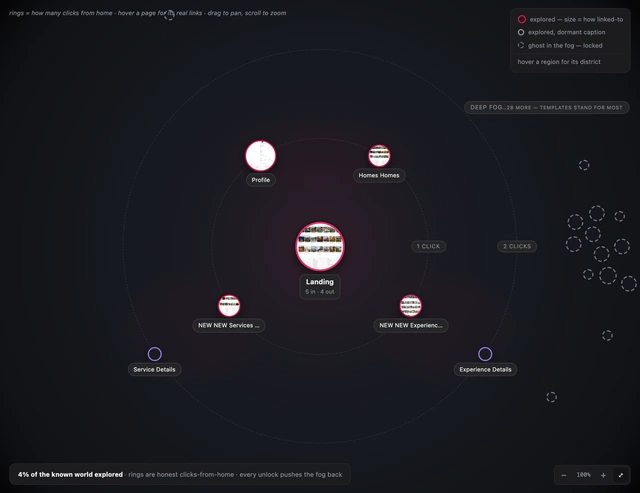
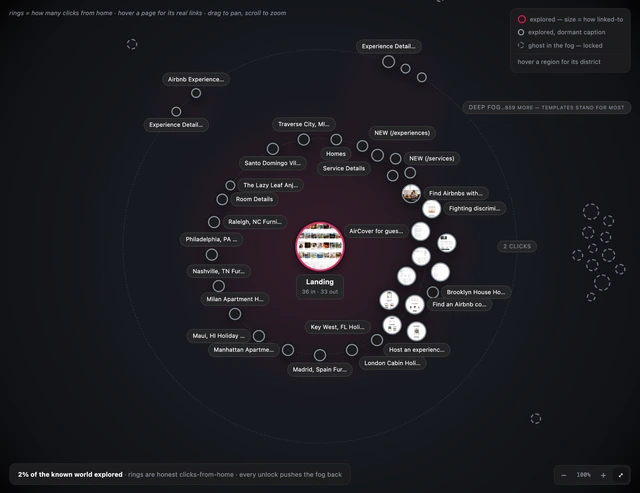
Landing page v1.2: populated showcase, hero decided on evidence (F1-F3)
F1 — all seven gallery tiles reshot on cap-40-class libraries. Six now come from
fresh landing-shots-* captures (18-41 pages each, was 7-39); flipkart stays on its
read-only fixture and reshot byte-identical, which incidentally proves the whole
shot pipeline deterministic. github's measured accent moved with the denser
capture: #5FED83 (Copilot green, cap-10) -> #0969DA (link blue, 734x on 40 pages).
All seven alt texts rewritten to describe what their own render now shows.

F2 — the deferred hero decision, made by count rather than by eye. New probes
(hero-probe.js, ring-probe.js) measure the brief's five criteria per zoom tier on
both candidates. wikipedia-37 wins four — two rings, two district arcs, a deep-fog
chip over 4,169 ghosts — and loses "visible accent presence": 1 of 37 discs wears
the accent against 8 of 18 on xflow. So xflow keeps the hero, as the brief
directed. The cause is not Wikipedia's pale pages: the accent ring encodes "this
page has a description", and that workspace has described:0. One describe run
would very likely flip this.

F3 — two numbers the page quotes had gone stale under it, because landing-shots
was itself re-captured today: x31,920 -> x32,939 and "1 more note" -> "3 more
notes". Four landing-shots assets reshot so the images agree with the copy.
Added the blue-band disclosure (six of seven hexes inside 19.7 degrees) which
v1.1's report wrongly claimed was already on the page, and a note on pages a
[…]

diff --git a/docs/index.html b/docs/index.html
@@ -281,6 +281,13 @@
 
     </div>
 
+    <!-- The hero map is xflowpay, and v1.2 re-ran the choice rather than inheriting it: with the map-root
+         fix in, wikipedia's 37-page capture finally draws true rings, so both candidates went through the
+         same zoom sweep again. wikipedia wins on structure (two rings, district arcs, a deep-fog chip that
+         xflow's single-ring library cannot produce) and loses on accent presence — measured: 1 of its 37
+         discs wears the product's accent, against 8 of 18 here, because the accent ring marks a page whose
+         description has been written and that workspace has none. Evidence + the head-to-head pair in
+         prds/landing-page-v1.2-populated-BUILD-REPORT.md § F2. -->
     <div class="heroshot">
       <figure class="shot">
         <img src="assets/hero-map.webp" width="2200" height="1696"
@@ -426,11 +433,11 @@
           <div class="body reveal">
             <h3>Design language</h3>
             <p class="quote">Measured from your product, or absent.</p>
-            <p>Colours, type ramp, spacing ladder and radii, aggregated from the captured pages — every value carrying the count and page-spread behind it, as here, where the product's darkest navy is <code>×31,920</code> across all eighteen pages and the accent is <code>×141</code> across four. One toggle re-reads the same colours as a treemap of how often each appears. The tab opens with <code>method: heuristic</code> in its own words: evidence of how the product is styled today, not a claim about its authored tokens. It even names what it left out — values seen on a single page stay in <code>tokens.json</code> instead of being promoted into the ramp.</p>
+            <p>Colours, type ramp, spacing ladder and radii, aggregated from the captured pages — every value carrying the count and page-spread behind it, as here, where the product's darkest navy is <code>×32,939</code> across all eighteen pages and the accent is <code>×141</code> across four. One toggle re-reads the same colours as a treemap of how often each appears. The tab opens with <code>method: heuristic</code> in its own words: evidence of how the product is styled today, not a claim about its authored tokens. It even names what it left out — values seen on a single page stay in <code>tokens.json</code> instead of being promoted into the ramp.</p>
           </div>
           <div class="imgwrap">
             <img src="assets/tour-tokens.webp" width="1900" height="609"
-                 alt="The Design language tab: a provenance strip reading 'Everything below is method: heuristic — values observed on the captured pages, aggregated and clustered by statistics — they are evidence of how the product is styled today, not its authored design tokens', above a Palette / Proportions toggle and twenty-one colour swatches, each labelled with its hex, how many times it was seen and on how many pages — #1F2741 ×31,920 on 18 pages, down to #E4E9FF ×5 on 5 pages.">
+                 alt="The Design language tab: a provenance strip reading 'Everything below is method: heuristic — values observed on the captured pages, aggregated and clustered by statistics — they are evidence of how the product is styled today, not its authored design tokens', then 'Filter: seen on 2+ pages (41 single-page values kept in tokens.json)', above a Palette / Proportions toggle and twenty-one colour swatches, each labelled with its hex, how many times it was seen and on how many pages — #1F2741 ×32,939 on 18 pages, down to #E4E9FF ×5 on 5 pages.">
           </div>
         </article>
 
@@ -442,7 +449,7 @@
           </div>
           <div class="imgwrap">
             <span class="fadeb"><img src="assets/tour-ledger.webp" width="680" height="990"
-                 alt="The working ledger: 'Library check — all clean — 1 more note, nothing needed from you'; then 'NEXT · NEW PAGES WAITING — Let your AI read your 10 new pages', with a 'Copy the describe prompt' button; then 'Borrowed your product's color — #5E76E3, the dashboard now wears it, observed across 4 pages'. The rail continues below the frame."></span>
+                 alt="The working ledger: 'Library check — all clean — 3 more notes, nothing needed from you'; then 'NEXT · NEW PAGES WAITING — Let your AI read your 10 new pages', with a 'Copy the describe prompt' button; then 'Borrowed your product's color — #5E76E3, the dashboard now wears it, observed across 4 pages'. The rail continues below the frame."></span>
           </div>
         </article>
 
@@ -453,54 +460,61 @@
   <!-- ═══ 5 · ANY PRODUCT — THE MAP GALLERY ═════════════════════════════════════════════════════
        Seven real workspaces, seven real Map panes, each wearing the accent the kit measured in that
        product's own pages. At tile scale a map is its shape — discs, fog, accent — which is the point:
-       nothing here is a mockup of a product, it is the kit's own output on seven different ones. -->
+       nothing here is a mockup of a product, it is the kit's own output on seven different ones.
+       v1.2: all seven re-shot on POPULATED libraries (18–41 pages each, was 7–39), so a tile now shows
+       a full ring and a real frontier rather than a sparse cluster. Six of the seven come from fresh
+       captures in their own landing-shots-* workspaces; flipkart stays on its read-only fixture. Every
+       number in this section — page counts, hexes, percentages — is re-read from those workspaces at
+       build time; see prds/landing-page-v1.2-populated-BUILD-REPORT.md. -->
   <section id="anyproduct">
     <div class="wrap">
       <p class="eyebrow">Any product</p>
       <h2>Seven products, seven maps.</h2>
-      <p class="lede">Point it at what you design for. Seven real captures in seven separate workspaces — a marketplace, a retailer, a sports site, a travel platform, an encyclopedia, a payments product, a developer platform — each dashboard wearing that product's own colour, observed rather than configured. Same kit, same one script, nothing set per product.</p>
+      <p class="lede">Point it at what you design for. Seven real captures in seven separate workspaces — a marketplace, a retailer, a sports site, a travel platform, an encyclopedia, a payments product, a developer platform — each dashboard wearing that product's own colour, observed rather than configured. Eighteen to forty-one pages in each library, and each map says out loud how little of its site that is: from eleven per cent down to nine-tenths of one. Same kit, same one script, nothing set per product.</p>
 
       <ul class="gal">
         <li>
           <img src="assets/tile-flipkart.webp" width="640" height="493"
-               alt="The kit's Map pane on a capture of flipkart.com: rings of small page discs around a lit centre, with dashed ghost pages in the fog, the whole panel tinted by a measured blue accent.">
+               alt="The kit's Map pane on a capture of flipkart.com: thirty-nine page discs in two labelled rings — one click and two clicks from home — around a lit centre, most of them outlined in the measured blue accent, with dashed ghost pages in the fog beyond and a footer reading '3% of the known world explored'.">
           <span class="cap"><span class="sw" style="background:#2874F0"></span><b>flipkart.com</b><span class="hex">#2874F0</span></span>
         </li>
         <li>
           <img src="assets/tile-amazon.webp" width="640" height="493"
-               alt="The kit's Map pane on a capture of amazon.in: rings of small page discs around a lit centre, with dashed ghost pages in the fog, the whole panel tinted by a measured blue accent.">
+               alt="The kit's Map pane on a capture of amazon.in: forty-one page discs packed into a dense ring around a lit centre, each disc its own captured screenshot, a further ring labelled two clicks, dashed ghost pages in the fog, and a footer reading '1% of the known world explored'.">
           <span class="cap"><span class="sw" style="background:#2162A1"></span><b>amazon.in</b><span class="hex">#2162A1</span></span>
         </li>
         <li>
           <img src="assets/tile-espncricinfo.webp" width="640" height="493"
-               alt="The kit's Map pane on a capture of espncricinfo.com: rings of small page discs around a lit centre, with dashed ghost pages in the fog, the whole panel tinted by a measured blue accent.">
+               alt="The kit's Map pane on a capture of espncricinfo.com: thirty-seven page discs ringing a lit centre with a second ring labelled two clicks, dashed ghost pages spread through a blue-tinted fog, and a footer reading '3% of the known world explored'.">
           <span class="cap"><span class="sw" style="background:#0860C4"></span><b>espncricinfo.com</b><span class="hex">#0860C4</span></span>
         </li>
         <li>
           <img src="assets/tile-airbnb.webp" width="640" height="493"
-               alt="The kit's Map pane on a capture of airbnb.co.in: a small cluster of seven page discs around a lit centre, with dashed ghost pages in the fog, the whole panel tinted by a measured crimson accent.">
+               alt="The kit's Map pane on a capture of airbnb.co.in: thirty-seven page discs ringing a lit centre, a second ring labelled two clicks, dashed ghost pages in the fog — and the whole fog glowing crimson, because that is the accent the kit measured in this product's own pages.">
           <span class="cap"><span class="sw" style="background:#DA1249"></span><b>airbnb.co.in</b><span class="hex">#DA1249</span></span>
         </li>
         <li>
           <img src="assets/tile-wikipedia.webp" width="640" height="493"
-               alt="The kit's Map pane on a capture of en.wikipedia.org: an arc of pale page discs beside a lit centre, with dashed ghost pages in the fog, the whole panel tinted by a measured blue accent.">
+               alt="The kit's Map pane on a capture of en.wikipedia.org: thirty-seven page discs, pale because the pages themselves are, ringing a blue-ringed centre, a second ring labelled two clicks, dashed ghost pages in the fog, and a footer reading '0.9% of the known world explored'.">
           <span class="cap"><span class="sw" style="background:#3366CC"></span><b>en.wikipedia.org</b><span class="hex">#3366CC</span></span>
         </li>
         <li>
           <img src="assets/tile-xflowpay.webp" width="640" height="493"
-               alt="The kit's Map pane on a capture of xflowpay.com: rings of small page discs around a lit centre, with dashed ghost pages in the fog, the whole panel tinted by a measured indigo accent.">
+               alt="The kit's Map pane on a capture of xflowpay.com: eighteen page discs in a single ring around a lit centre, several outlined in the measured indigo accent, dashed ghost pages in the fog, and a footer reading '11% of the known world explored' — the most-explored library of the seven, because it is the smallest site.">
           <span class="cap"><span class="sw" style="background:#5E76E3"></span><b>xflowpay.com</b><span class="hex">#5E76E3</span></span>
         </li>
         <li>
           <img src="assets/tile-github.webp" width="640" height="493"
-               alt="The kit's Map pane on a capture of github.com: a small ring of page discs around a lit centre, with dashed ghost pages in the fog, the whole panel tinted by a measured green accent.">
-          <span class="cap"><span class="sw" style="background:#5FED83"></span><b>github.com</b><span class="hex">#5FED83</span></span>
+               alt="The kit's Map pane on a capture of github.com: forty page discs in a dense ring around a lit centre, most of them dark because the product's own pages are, dashed ghost pages in the fog, and a footer reading '5% of the known world explored'.">
+          <span class="cap"><span class="sw" style="background:#0969DA"></span><b>github.com</b><span class="hex">#0969DA</span></span>
         </li>
       </ul>
 
-      <p class="note" style="margin-top:18px">Every hex above was <b>measured</b>, not chosen: it is the most-used colour in that product's own captured pages that a UI accent could plausibly be, and the dashboard then wears it. Nothing was configured per product — where a product's colour can't clear the dashboard's contrast floor, the kit lightens it just enough and records that it did, which is why amazon.in's measured <code>#2162A1</code> paints as <code>#2367A9</code>. Where no colour qualifies, no accent is recorded at all and the dashboard keeps its own indigo — absent rather than invented.</p>
+      <p class="note" style="margin-top:18px">Every hex above was <b>measured</b>, not chosen: it is the most-used colour in that product's own captured pages that a UI accent could plausibly be, and the dashboard then wears it. Which is also why six of these seven hexes sit inside a twenty-degree band of blue and only airbnb's crimson doesn't — a palette someone picked would be prettier than this, and that is rather the point. Nothing was configured per product — where a product's colour can't clear the dashboard's contrast floor, the kit lightens it just enough and records that it did, which is why amazon.in's measured <code>#2162A1</code> paints as <code>#2367A9</code>. Where no colour qualifies, no accent is recorded at all and the dashboard keeps its own indigo — absent rather than invented.</p>
 
       <p class="note" style="margin-top:12px">These maps are shown small on purpose. At this size a captured product is only its shape — how many pages, how far from home, how much fog — which is all this section claims. Every full-size dashboard view on this page is of one product, <code>xflowpay.com</code>, captured by the person who built the kit.</p>
+
+      <p class="note" style="margin-top:12px">Nor does every page yield. Following links is all the kit does, so a page that only opens behind a sign-in, or that answers a link with a soft 404, doesn't come home: amazon.in's run recorded seven of those — six <code>auth-redirect</code>, one <code>soft-404</code> — each with its reason, in the same file that lists what did come home. The maps above are what one read-only crawl reached, not a claim that every page type is reachable.</p>
     </div>
   </section>
 

diff --git a/ux-copy.md b/ux-copy.md
@@ -1,5 +1,56 @@
 # UX copy canon
 
+## 2026-07-29 — landing v1.2 (populated showcase + the hero decision)
+
+`prds/landing-page-v1.2-populated.md`. **Every locked v1 string is untouched** — re-checked
+programmatically (25 locked strings, 0 missing; 9 banned words, 0 present). The showcase workspaces were
+re-captured at cap-40 class, so this round's copy changes are the ones the new numbers *forced*, plus two
+honest disclosures the new data made available. Nothing was reworded for taste.
+
+**Numbers that moved, and the strings that carry them.** `landing-shots/` (xflowpay) was itself
+re-captured, so two quoted values went stale and were re-read at build time:
+
+| Where | was | now | Read from |
+|---|---|---|---|
+| Tour · Design language body | `×31,920` | `×32,939` | `tokens.json` `colors.top[0] = {value:"#1F2741", count:32939, pages:18}` |
+| Tour · Design language alt | `42 single-page values` | `41 single-page values` | the provenance strip's own text in the reshot render |
+| Tour · ledger alt | `1 more note` | `3 more notes` | the ledger's own top card in the reshot render |
+
+**One tile caption changed, because the measurement changed.** github.com's accent was the Copilot
+marketing green `#5FED83` off a 10-page capture; the fresh 40-page capture measures GitHub's link blue:
+
+- was: `github.com · #5FED83`
+- now: `github.com · #0969DA` — `tokens.json.brand.seed`, `source: "observed"`, basis 734× across 40 pages
+
+The other six captions are unchanged: `flipkart.com · #2874F0` · `amazon.in · #2162A1` ·
+`espncricinfo.com · #0860C4` · `airbnb.co.in · #DA1249` · `en.wikipedia.org · #3366CC` ·
+`xflowpay.com · #5E76E3`.
+
+**Gallery lede — one clause added**, now that the libraries are genuinely populated and the spread is
+worth stating (18–41 pages; 11% down to 0.9% explored, both endpoints read off the maps' own stats lines):
+
+- added: `Eighteen to forty-one pages in each library, and each map says out loud how little of its site that is: from eleven per cent down to nine-tenths of one.`
+
+**Two disclosures added — both say something *against* the product, which is why they're here.**
+
+> Added to the "measured, not chosen" note: `Which is also why six of these seven hexes sit inside a twenty-degree band of blue and only airbnb's crimson doesn't — a palette someone picked would be prettier than this, and that is rather the point.`
+
+Measured hues: 209.5° · 211.9° · 212.4° · 217.2° · 220° · 229.2° (a 19.7° span) against airbnb at 343.5°.
+v1.1's report claimed this wrinkle was "disclosed on the page" — it wasn't, only in the report. Now it is.
+
+> New third note under the strip: `Nor does every page yield. Following links is all the kit does, so a page that only opens behind a sign-in, or that answers a link with a soft 404, doesn't come home: amazon.in's run recorded seven of those — six auth-redirect, one soft-404 — each with its reason, in the same file that lists what did come home. The maps above are what one read-only crawl reached, not a claim that every page type is reachable.`
+
+Evidence: `landing-shots-amazon/design-context/manifest.json` → `counts.skipped: 7`, and a `skipped[]`
+array naming each slug with its reason. The brief asked for this disclosure sourced to espncricinfo's
+`/cricketers/:id` and `/records/*` families; that workspace's manifest records `skipped: 0, failed: 0`,
+so the claim is made on amazon's record, which does hold it. See the build report § F3.
+
+**Unchanged and worth stating:** the hero caption (`eighteen pages downloaded, one hundred and forty-six
+still ghosts in the fog. Rings are measured clicks from home.`) still matches the shipped frame exactly —
+18 downloaded, 164 found, 146 on the frontier, 1 page at depth 0 and 17 at depth 1 with **none null**. The
+three tour panel quotes, the headline `Seven products, seven maps.`, and all of §§1–4 and 6–8 are as v1.1
+left them.
+
 ## 2026-07-29 — map root detection + two riders (`prds/v1-fix-map-root.md`)
 
 **R2 — the Use-it tab's false "no network" claim, fixed.** `tools/dashboard-template.html:2984`, the
